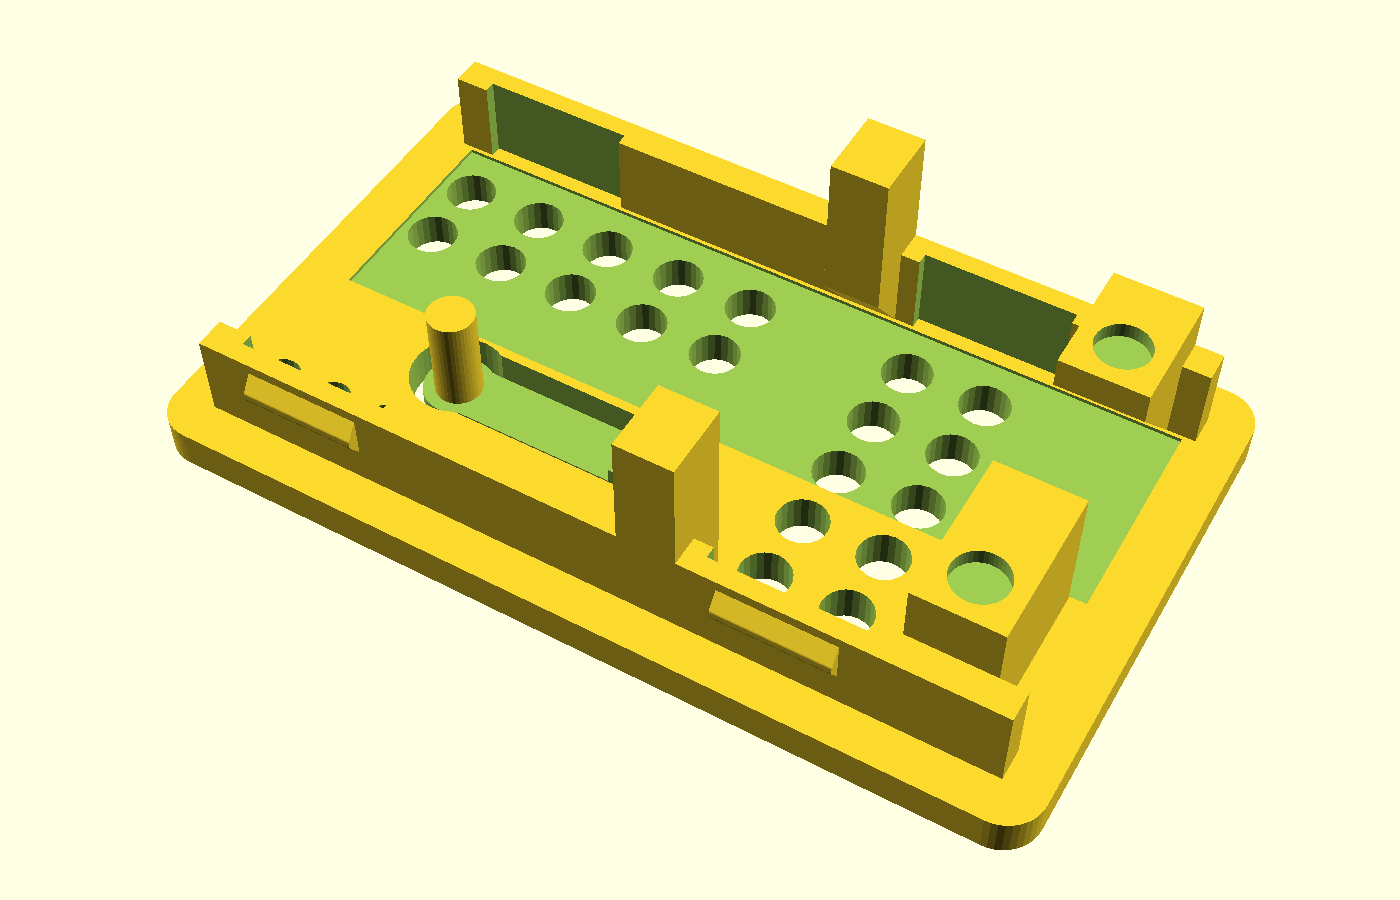
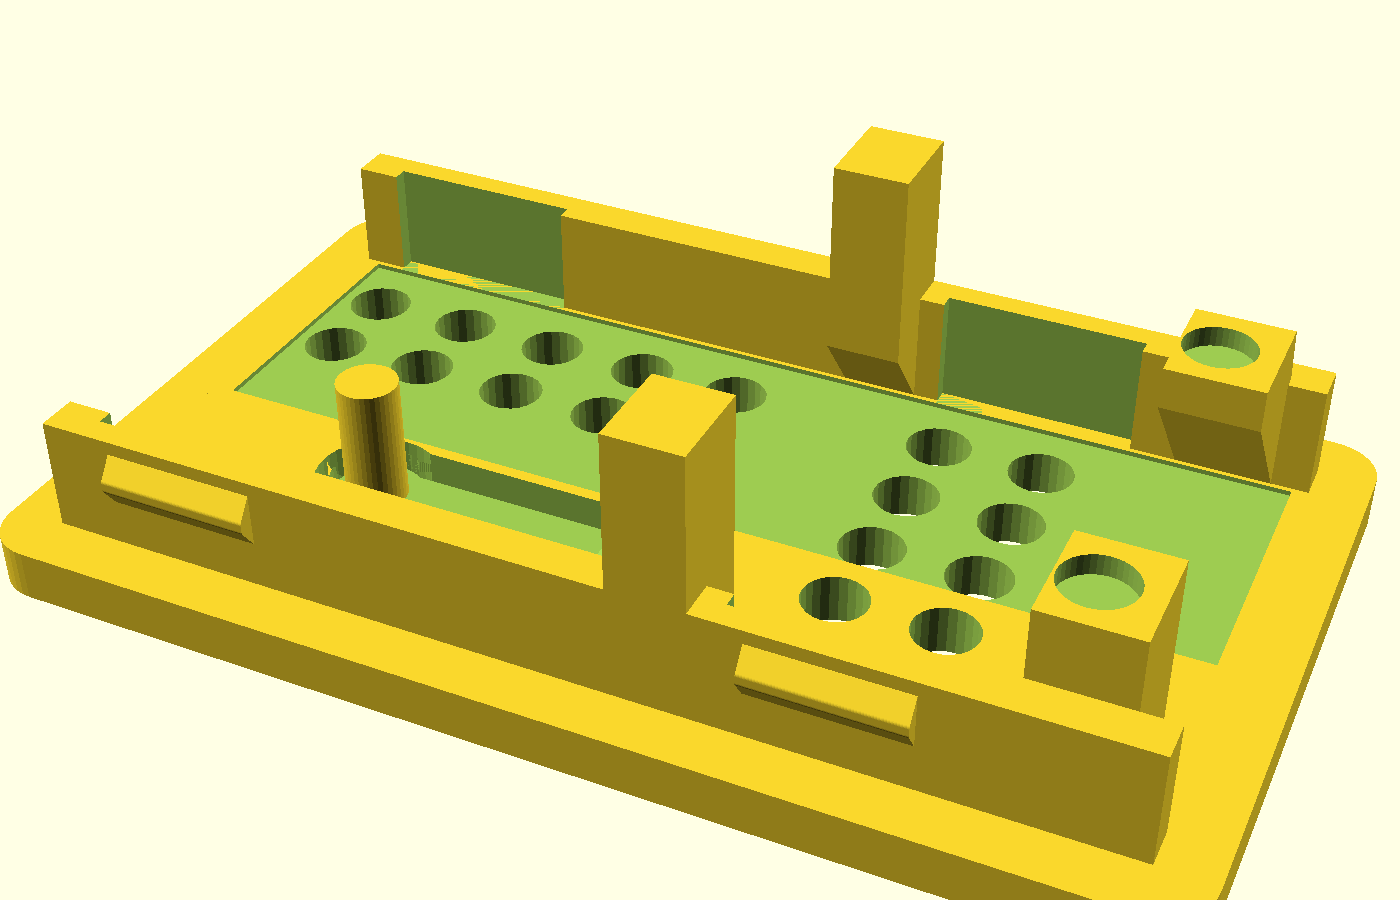
Slide-in case: shrink the lid feet to clear the GY-346's parts
The foot on the regulator side ran 6 mm past its hole and pressed on the
0805 beside the hole, the big cap and the regulator's tab. Both feet are now
4.5 x 3.75 mm pads round the holes, reaching 1.5 mm past the hole centre
toward the pins. The module's parts (measured from Brad's photo) are added to
the stand-ins, so the clash check now catches a foot that lands on one; the
old feet fail it, the new ones pass. Re-exported slide_lid.stl, added
slide-feet.png and re-rendered slide-lid.png.

Claude-Session: https://claude.ai/code/session_019Ex3Reu1PmNz48LDCjeDkm

diff --git a/hw/case/README.md b/hw/case/README.md
@@ -49,9 +49,14 @@ wire each (26-30 AWG).
   in pushes the board back into them, and pulling a cable out pulls it forward
   against the end wall. The wires run back between the posts.
 - The GY-346 sits on two floor rails with its header pads toward the SuperMini. Two
-  pins come up through its mounting holes, and two lid feet press the board down
-  around the holes. A firm clamp matters here, because a loose module reads its own
-  rattle as vibration.
+  pins come up through its mounting holes, and two small lid feet press the board
+  down around the holes. A firm clamp matters here, because a loose module reads its
+  own rattle as vibration. The feet stay on the bare board between each hole and the
+  module's edges, clear of the regulator, the 0805 parts and the big cap; the
+  module's parts are in the clash check (`gy_parts` in the scad, measured from a
+  photo of the board).
+
+<img src="slide-feet.png" alt="Lid feet over the GY-346, before and after" width="840"/>
 - The ribbon antenna sticks to the ceiling in a shallow recess down the lid's centre.
   The reset tab, the posts and the feet all stay out of that strip.
 - **USB-C:** the end wall has a stadium-shaped hole 10 x 4 mm. The SuperMini slides
